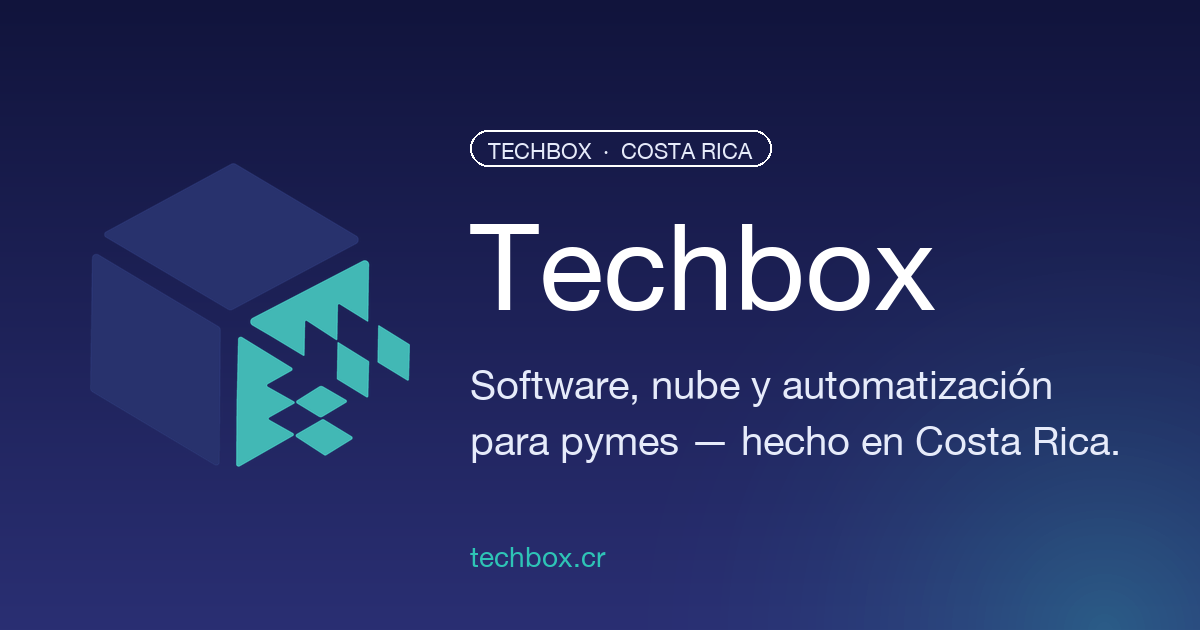
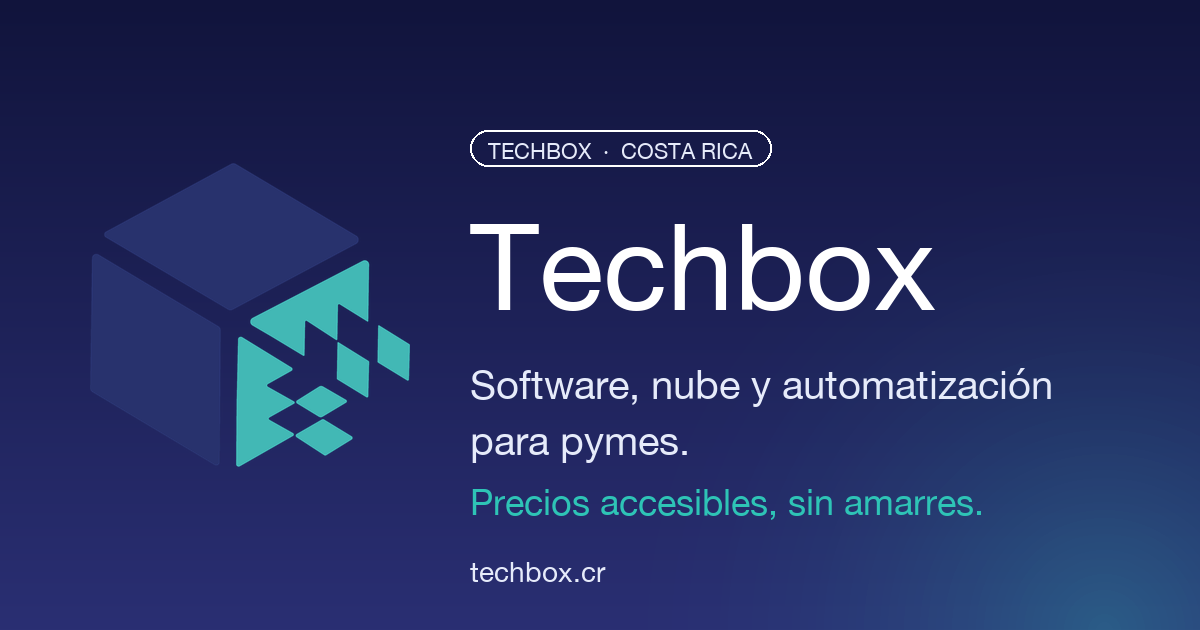
cosas

Changed region(s): [[0.6167, 0.6635, 0.925, 0.7238], [0.37, 0.7841, 0.8325, 0.8444], [0.37, 0.8746, 0.5242, 0.9349]]

diff --git a/src/app/layout.tsx b/src/app/layout.tsx
@@ -34,13 +34,13 @@ export const metadata: Metadata = {
     siteName: 'Techbox',
     title: 'Techbox | Software, nube y automatización para pymes',
     description:
-      'Tecnología práctica para hacer crecer tu negocio. Software, nube, automatización, ciberseguridad y datos para pymes en Costa Rica y Latinoamérica.',
+      'Software, nube, automatización, ciberseguridad y datos para pymes. Precios accesibles, sin amarres.',
   },
   twitter: {
     card: 'summary_large_image',
     title: 'Techbox',
     description:
-      'Tecnología práctica para hacer crecer tu negocio en Costa Rica y Latinoamérica.',
+      'Software, nube y automatización para pymes. Precios accesibles, sin amarres.',
   },
 };
 

diff --git a/src/app/page.tsx b/src/app/page.tsx
@@ -100,7 +100,8 @@ export default function HomePage() {
             <div className="mt-2 flex flex-wrap items-center gap-5 text-xs text-[var(--text-soft)]">
               <span>✓ Diagnóstico sin costo</span>
               <span>✓ Propuesta en 5 días hábiles</span>
-              <span>✓ Sin amarres ni permanencia mínima</span>
+              <span>✓ Precios accesibles para pymes</span>
+              <span>✓ Sin permanencia mínima</span>
             </div>
           </div>
           <div className="relative">